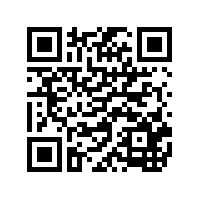
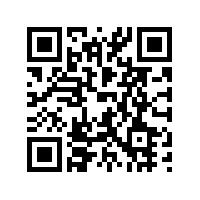
implemented downloading immunization report as pdf

Changed region(s): [[0.12, 0.12, 0.87, 0.87]]

diff --git a/clerk-frontend/src/pages/ImmunizationReport.jsx b/clerk-frontend/src/pages/ImmunizationReport.jsx
@@ -1,5 +1,9 @@
 import { useEffect, useState } from "react";
-import { downloadHtml, downloadHtml3001 } from "../services/axiosService";
+import {
+  downloadHtml,
+  downloadHtml3001,
+  downloadPdf3001,
+} from "../services/axiosService";
 import {
   generateImmunizationReport,
   getImmunizationReports,
@@ -32,10 +36,16 @@ export const ImmunizationReport = () => {
         window.open(`${SERVER_URL}/${response.data}`);
       }
     });
+    downloadPdf3001("immunization-reports", e.target.id, (response) => {
+      if (response.status === 200) {
+        window.open(`${SERVER_URL}/${response.data}`);
+      }
+    });
   };
 
   return (
     <>
+      <h1>Izvestaji o imunizaciji</h1>
       <input
         type="text"
         value={dateFrom}

diff --git a/clerk-frontend/src/pages/DigitalRequestsPage.jsx b/clerk-frontend/src/pages/DigitalRequestsPage.jsx
@@ -59,6 +59,7 @@ export const DigitalRequestsPage = () => {
 
   return (
     <>
+      <h1>Zahtevi za izdavanje digitalnog sertifikata</h1>
       {isDeclined ? (
         <>
           <input
@@ -72,7 +73,7 @@ export const DigitalRequestsPage = () => {
       ) : null}
       <table>
         <tbody>
-          {requests &&
+          {requests ? (
             requests.map((request, i) => {
               return (
                 <>
@@ -118,7 +119,10 @@ export const DigitalRequestsPage = () => {
                   </tr>
                 </>
               );
-            })}
+            })
+          ) : (
+            <h4>Trenutno nema zahteva za digitalni sertifikat</h4>
+          )}
         </tbody>
       </table>
     </>

diff --git a/clerk-frontend/src/App.js b/clerk-frontend/src/App.js
@@ -3,13 +3,15 @@ import { BrowserRouter as Router, Routes, Route } from "react-router-dom";
 import { ImmunizationReport } from "./pages/ImmunizationReport";
 import { DigitalRequestsPage } from "./pages/DigitalRequestsPage";
 import { VaccinesPage } from "./pages/VaccinesPage";
+import { WelcomePage } from "./pages/WelcomePage";
 
 function App() {
   return (
     <div className="App">
       <Router>
         <Routes>
-          <Route exact path="/" element={<DigitalRequestsPage />} />
+          <Route exact path="/" element={<WelcomePage />} />
+          <Route exact path="/certificates" element={<DigitalRequestsPage />} />
           <Route
             exact
             path="/generate-report"

diff --git a/clerk-frontend/src/services/axiosService.js b/clerk-frontend/src/services/axiosService.js
@@ -107,6 +107,22 @@ export function downloadPdf(
     });
 }
 
+export function downloadPdf3001(
+  path,
+  documentId,
+  callback = defaultCallback,
+  errorCallback = defaultErrorCallback
+) {
+  axios
+    .get(`${API_URL}/${path}/download/${documentId}`)
+    .then((response) => {
+      callback(response);
+    })
+    .catch((error) => {
+      errorCallback(error);
+    });
+}
+
 export function downloadHtml(
   path,
   documentId,

diff --git a/clerk-frontend/src/pages/WelcomePage.jsx b/clerk-frontend/src/pages/WelcomePage.jsx
@@ -1,0 +1,12 @@
+export const WelcomePage = () => {
+  return (
+    <>
+      <h1>Vakcinisoni sluzbenik</h1>
+      <a href="/certificates">Digitalni sertifikati</a>
+      <br />
+      <a href="/generate-report">Izvestaji o imunizaciji</a>
+      <br />
+      <a href="/vaccines">Vakcine</a>
+    </>
+  );
+};

diff --git a/clerk-frontend/src/pages/VaccinesPage.jsx b/clerk-frontend/src/pages/VaccinesPage.jsx
@@ -41,6 +41,7 @@ export const VaccinesPage = () => {
 
   return (
     <>
+      <h1>Izvestaji o imunizaciji</h1>
       <table>
         <thead>
           <tr>

diff --git a/vakcinisoni-clerk/src/main/java/vakcinisoniclerk/services/QrService.java b/vakcinisoni-clerk/src/main/java/vakcinisoniclerk/services/QrService.java
@@ -1,0 +1,47 @@
+package vakcinisoniclerk.services;
+
+import com.google.zxing.BarcodeFormat;
+import com.google.zxing.EncodeHintType;
+import com.google.zxing.MultiFormatWriter;
+import com.google.zxing.WriterException;
+import com.google.zxing.client.j2se.MatrixToImageWriter;
+import com.google.zxing.common.BitMatrix;
+import com.google.zxing.qrcode.decoder.ErrorCorrectionLevel;
+
+import java.io.File;
+import java.io.IOException;
+import java.util.HashMap;
+import java.util.Map;
+
+public class QrService {
+
+    private static void createQR(String data, String path,
+                                 String charset, Map hashMap,
+                                 int height, int width) throws IOException, WriterException {
+        BitMatrix matrix = new MultiFormatWriter().encode(
+                new String(data.getBytes(charset), charset),
+                BarcodeFormat.QR_CODE, width, height);
+
+        MatrixToImageWriter.writeToFile(
+                matrix,
+                path.substring(path.lastIndexOf('.') + 1),
+                new File(path));
+
+    }
+
+    public static void makeNewQr(String data, String path) throws IOException, WriterException {
+        String charset = "UTF-8";
+        System.out.println("CREATE NEW QR CODE");
+        Map<EncodeHintType, ErrorCorrectionLevel> hashMap
+                = new HashMap<EncodeHintType,
+                                ErrorCorrectionLevel>();
+
+        hashMap.put(EncodeHintType.ERROR_CORRECTION,
+                ErrorCorrectionLevel.L);
+
+        createQR(data, path, charset, hashMap, 200, 200);
+        System.out.println("QR Code Generated!!! ");
+
+    }
+
+}

diff --git a/vakcinisoni-clerk/src/main/java/vakcinisoniclerk/services/impl/ImmunizationReportServiceImpl.java b/vakcinisoni-clerk/src/main/java/vakcinisoniclerk/services/impl/ImmunizationReportServiceImpl.java
@@ -10,6 +10,7 @@ import org.xmldb.api.base.XMLDBException;
 import vakcinisoniclerk.models.*;
 import vakcinisoniclerk.repository.impl.ImmunizationReportRepository;
 import vakcinisoniclerk.services.IImunizationReportService;
+import vakcinisoniclerk.services.QrService;
 import vakcinisoniclerk.xml2pdf.itext.HTMLTransformer;
 import vakcinisoniclerk.xml2pdf.xslfo.XSLFOTransformer;
 
@@ -30,6 +31,8 @@ public class ImmunizationReportServiceImpl implements IImunizationReportService 
 
     public HTMLTransformer htmlTransformer = new HTMLTransformer();
 
+    public static final String PATH_TO_QR = "data/xsl/images/qr-code.jpg";
+    public static final String URL_BASE = "http://www.vakcinisoni/com/ImmunizationReport/";
 
     @Autowired
     private ImmunizationReportRepository repository;
@@ -56,6 +59,21 @@ public class ImmunizationReportServiceImpl implements IImunizationReportService 
             e.printStackTrace();
         }
         return null;
+    }
+
+    @Override
+    public String download(String id) {
+        try {
+            transformer.setINPUT_FILE("data/" + id + ".xml");
+            File res = repository.getXml(id);
+            //GENERATE QR
+            String fullUrl = URL_BASE + id;
+            QrService.makeNewQr(fullUrl, PATH_TO_QR);
+            transformer.generatePDF();
+            return "success";
+        } catch (Exception e) {
+            return "fail";
+        }
     }
 
     @Override

diff --git a/vakcinisoni-clerk/src/main/java/vakcinisoniclerk/controllers/ImmunizationReportController.java b/vakcinisoni-clerk/src/main/java/vakcinisoniclerk/controllers/ImmunizationReportController.java
@@ -30,6 +30,12 @@ public class ImmunizationReportController {
         return new ResponseEntity<>(ret, HttpStatus.OK);
     }
 
+    @GetMapping(value = "/download/{id}")
+    public ResponseEntity<String> download(@PathVariable String id){
+        String ret = service.download(id);
+        return new ResponseEntity<>(ret, HttpStatus.OK);
+    }
+
     @GetMapping(value = "/downloadhtml/{id}")
     public ResponseEntity<String> downloadHtml(@PathVariable String id){
         String ret = service.downloadHtml(id);

diff --git a/vakcinisoni-clerk/src/main/java/vakcinisoniclerk/services/IImunizationReportService.java b/vakcinisoni-clerk/src/main/java/vakcinisoniclerk/services/IImunizationReportService.java
@@ -14,5 +14,7 @@ public interface IImunizationReportService {
 
     Reports findAll();
 
+    String download(String id);
+
     String downloadHtml(String id);
 }
